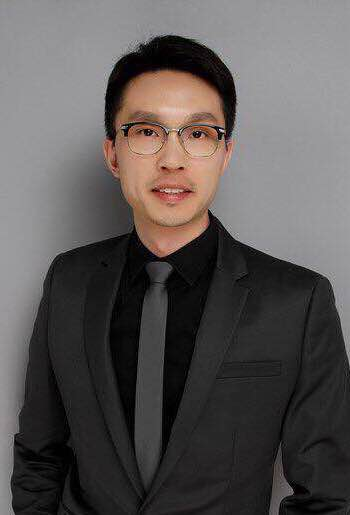
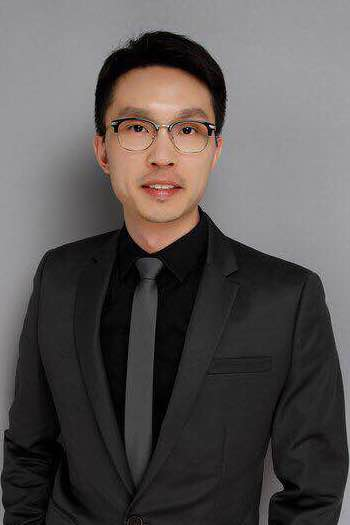
Add all member info

diff --git a/about.html b/about.html
@@ -235,6 +235,86 @@
                 </div>
               </div>
 
+              <div class="carousel-item">
+                <div class="modal-member-container w-100">
+                  <div class="modal-member-container__intro">
+                    <div class="modal-member-container__intro__title">执行董事</div>
+                    <div class="modal-member-container__intro__name">尤頔</div>
+                    <div class="modal-member-container__intro__invest">科技组负责人</div>
+                    <div class="modal-member-container__intro__content">
+                      拥有10年私募股权投资、并购收购、基金管理经验，重点关注互联网与医疗大健康产业投资机会， 参与投资包括华大基因、VIP ABC、弘成教育、沃森生物、运去哪、云账房、Udesk等诸多明星项目。<br>曾担任:<br>- 软银投资投资经理</div>
+                    <div class="modal-member-container__intro__degree">上海交通大学，学士</div>
+                  </div>
+                  <div class="modal-member-container__avatar">
+                    <img class="w-100" src="/img/team-members/youdi.jpeg" />
+                  </div>
+                </div>
+              </div>
+
+              <div class="carousel-item">
+                <div class="modal-member-container w-100">
+                  <div class="modal-member-container__intro">
+                    <div class="modal-member-container__intro__title">执行董事</div>
+                    <div class="modal-member-container__intro__name">樊杨阳</div>
+                    <div class="modal-member-container__intro__invest">消费组负责人</div>
+                    <div class="modal-member-container__intro__content">
+                      拥有丰富的金融行业从业经验，在新加坡领先的金融机构参与多笔金融机构的海外发债项目，曾参与华兴资本早期投融资平台从0到1的建设与发展，服务晨光文具、小小运动馆、江南布衣、复星集团、Babycare等诸多项目。<br>曾担任:<br>- 新加坡DBS投资经理<br> - 华兴资本早期投融资项目总监</div>
+                    <div class="modal-member-container__intro__degree">美国哥伦比亚大学，硕士</div>
+                  </div>
+                  <div class="modal-member-container__avatar">
+                    <img class="w-100" src="/img/team-members/fanyangyang.jpeg" />
+                  </div>
+                </div>
+              </div>
+
+              <div class="carousel-item">
+                <div class="modal-member-container w-100">
+                  <div class="modal-member-container__intro">
+                    <div class="modal-member-container__intro__title">执行董事</div>
+                    <div class="modal-member-container__intro__name">周红雨</div>
+                    <div class="modal-member-container__intro__invest">医疗组负责人</div>
+                    <div class="modal-member-container__intro__content">
+                      拥有10年以上医疗领域的投融资、并购、技术转让和战略咨询相关经验，曾合作过包括闻泰医疗、安翰医疗、美创医疗、广印堂、春雨医生、京颐科技、易恒健康、康复之家、奥泰医疗等项目。<br>曾担任:<br>- 优势资本医疗投资部门高级副总裁<br> - 汉能投资医疗组投行部副总裁<br> - 埃森哲咨询战略咨询部咨询顾问</div>
+                    <div class="modal-member-container__intro__degree">上海交通大学，学士</div>
+                  </div>
+                  <div class="modal-member-container__avatar">
+                    <img class="w-100" src="/img/team-members/eric.jpeg" />
+                  </div>
+                </div>
+              </div>
+
+              <div class="carousel-item">
+                <div class="modal-member-container w-100">
+                  <div class="modal-member-container__intro">
+                    <div class="modal-member-container__intro__title">执行董事</div>
+                    <div class="modal-member-container__intro__name">夏炎</div>
+                    <div class="modal-member-container__intro__invest">IT技术总监</div>
+                    <div class="modal-member-container__intro__content">
+                      拥有10年以上金融业软件开发构建经验，擅长顶层架构设计，熟悉程序设计语言、数据库、软件开发工具、系统平台、标准、设计模式，对云计算有较深的研究，上海益盟软件股份有限公司开发部经理、上海表凡信息科技有限公司产品总监。</div>
+                    <div class="modal-member-container__intro__degree">复旦大学，硕士</div>
+                  </div>
+                  <div class="modal-member-container__avatar">
+                    <img class="w-100" src="/img/team-members/summer.jpeg" />
+                  </div>
+                </div>
+              </div>
+
+              <div class="carousel-item">
+                <div class="modal-member-container w-100">
+                  <div class="modal-member-container__intro">
+                    <div class="modal-member-container__intro__title">执行董事</div>
+                    <div class="modal-member-container__intro__name">贺司渡</div>
+                    <div class="modal-member-container__intro__invest">投资人关系管理</div>
+                    <div class="modal-member-container__intro__content">
+                      拥有10年以上公关传媒行业，4年金融行业经验，负责投资者关系管理和市场部门。与地方政府产业引导基金、上市公司和产业基金等逾1500家国内外顶尖投资机构建立并维护良好的投资者关系，推进企业股权投融资和兼并收购。先后服务:上海通用汽车、上海大众、捷豹路虎、光明乳业、晨光文具、路劲集团、Holovis、运去哪、Udesk、快塑网等优秀公司。</div>
+                    <div class="modal-member-container__intro__degree">复旦大学，学士</div>
+                  </div>
+                  <div class="modal-member-container__avatar">
+                    <img class="w-100" src="/img/team-members/hesidu.jpeg" />
+                  </div>
+                </div>
+              </div>
+
             </div>
             <a class="carousel-control-prev" href="#carouselExampleControls" role="button" data-slide="prev">
               <span class="carousel-control-prev-icon" aria-hidden="true"></span>
